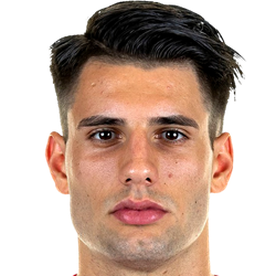
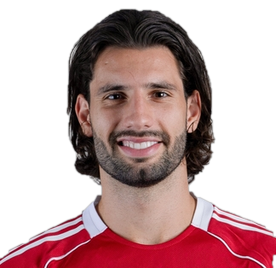
Bigger faces on player cards; Szoboszlai uses the new portrait
Portraits grow from 64px to 94px (lg 122px, sm 58px) and rise into the empty
strip between the rating badge and the flag, bottom-aligned above the name.
Cards without a portrait keep their initials circle.

Claude-Session: https://claude.ai/code/session_012zeQLpodzzmyDTZaFFPwG4

diff --git a/public/style.css b/public/style.css
@@ -88,7 +88,8 @@ input:focus,select:focus{border-color:var(--acc)}
 .cface{height:64px;display:grid;place-items:center}.cface .init{width:58px;height:58px;border-radius:50%;display:grid;place-items:center;font-weight:900;font-size:22px;background:rgba(255,255,255,.28);box-shadow:inset 0 0 0 2px rgba(255,255,255,.4)}
 .pcard.sm .cface{height:40px}.pcard.sm .cface .init{width:38px;height:38px;font-size:15px}
 .pcard.ruby .cface .init{background:rgba(0,0,0,.22)}
-.cface .cpic{height:64px;width:64px;object-fit:contain;filter:drop-shadow(0 2px 3px rgba(0,0,0,.35))}.pcard.sm .cface .cpic{height:40px;width:40px}
+.cface .cpic{height:94px;width:94px;margin-top:-30px;object-fit:contain;object-position:center bottom;filter:drop-shadow(0 2px 3px rgba(0,0,0,.35))}.pcard.sm .cface .cpic{height:58px;width:58px;margin-top:-18px}.pcard.lg .cface .cpic{height:122px;width:122px;margin-top:-40px}
+.cface:has(.cpic){display:flex;align-items:flex-end;justify-content:center;position:relative;z-index:0}.pcard.lg .cface:has(.cpic){height:74px}.pcard .ctop{position:relative;z-index:1}
 .cname{text-align:center;font-weight:800;font-size:13px;white-space:nowrap;overflow:hidden;text-overflow:ellipsis;text-transform:uppercase;letter-spacing:.03em}
 .cstats{display:flex;flex-wrap:wrap;justify-content:center;gap:3px 0;text-align:center;font-size:9.5px;font-weight:700;opacity:.92;border-top:1px solid rgba(0,0,0,.2);padding-top:5px}.cstats span{width:25%}
 .pcard.ruby .cstats{border-color:rgba(255,255,255,.3)}.cstats b{display:block;font-size:13px}
